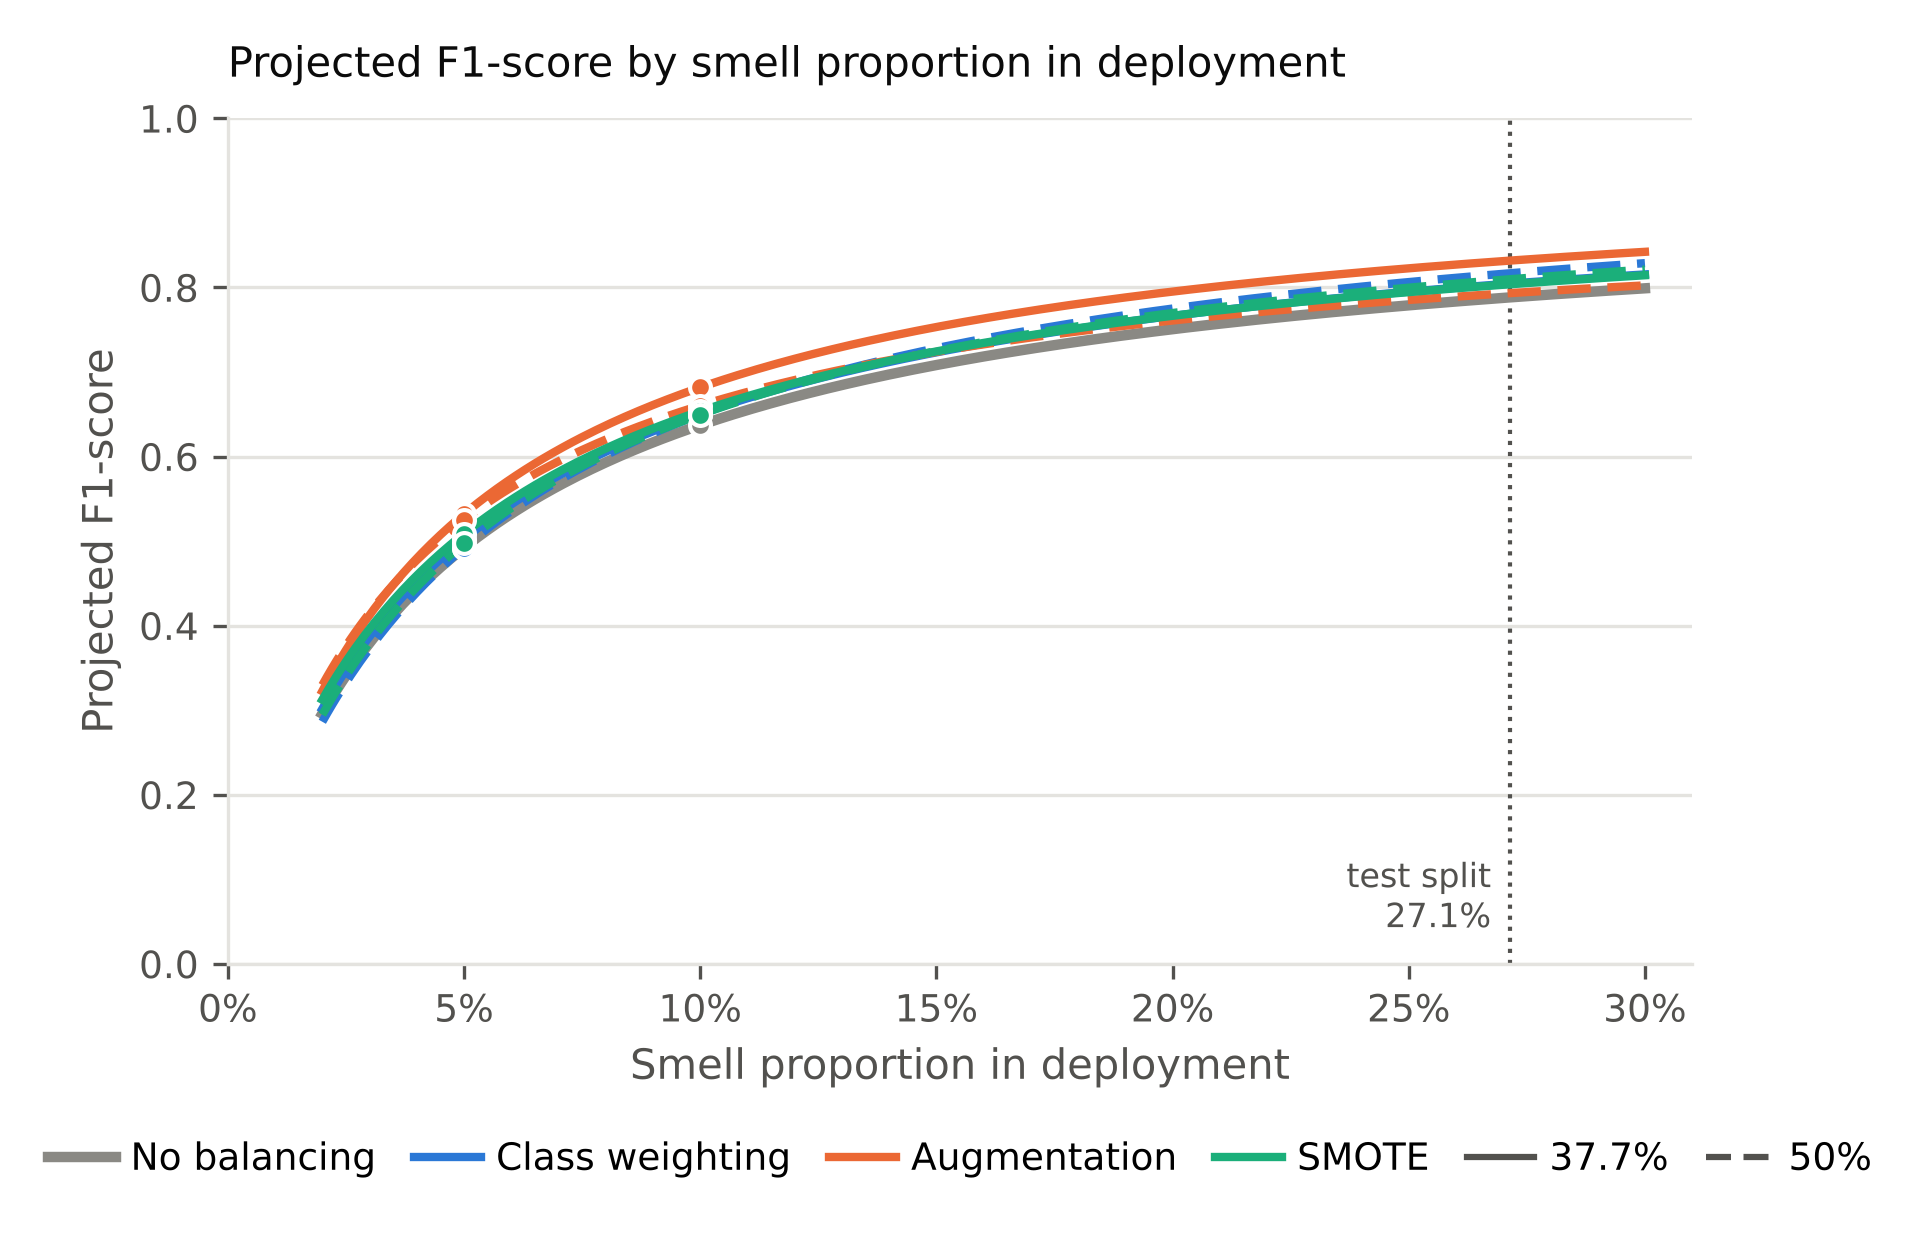
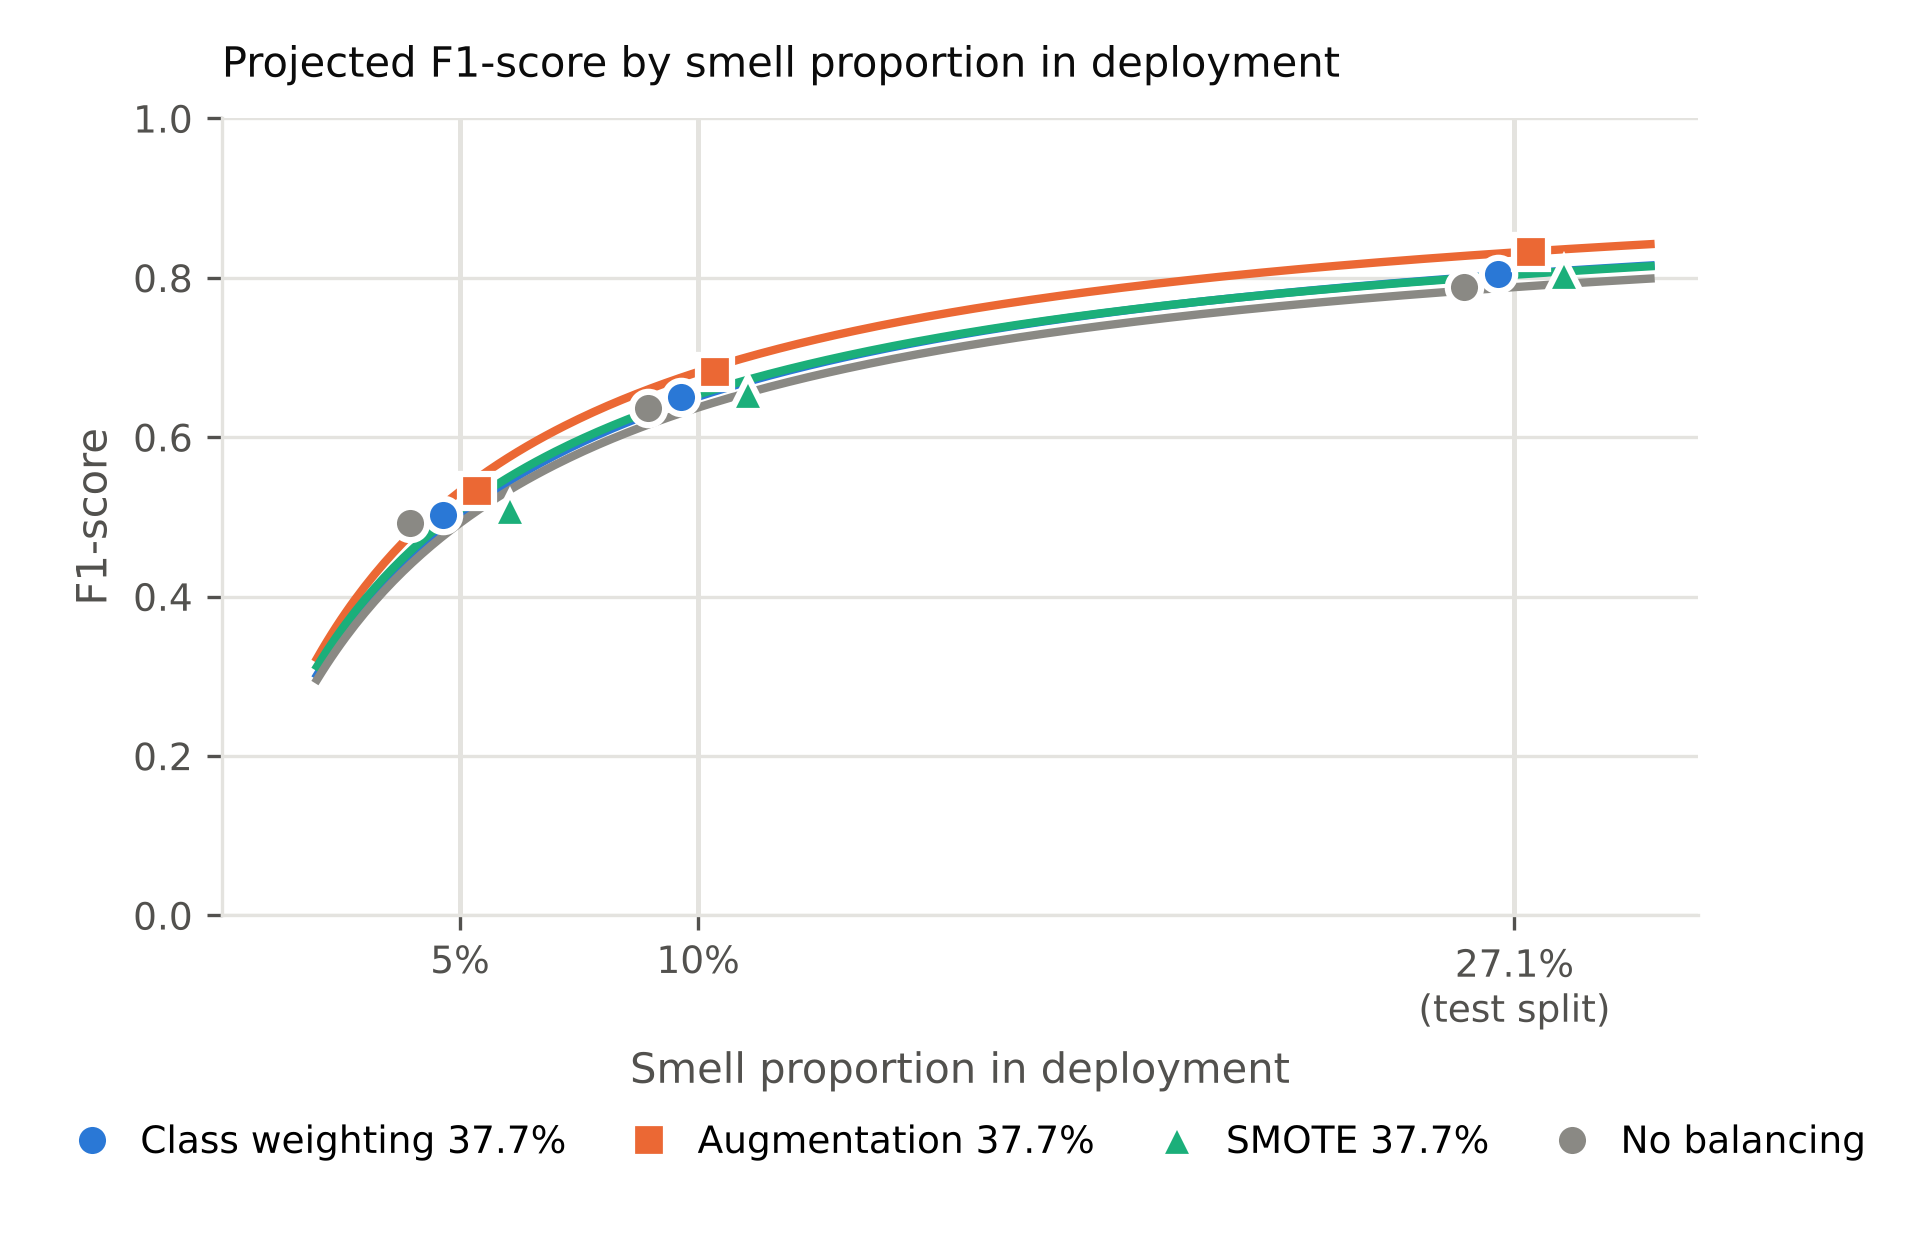
Projected figures: 37.7% curves only, method markers, lines at 5%, 10% and 27.1%
Claude-Session: https://claude.ai/code/session_017rhwVyM5rhv5k17AN45Ux5

diff --git a/scripts/5_plots.py b/scripts/5_plots.py
@@ -137,42 +137,37 @@ def projected(r, pi, metric):
     return 2 * precision * tpr / (precision + tpr) if precision + tpr else 0.0
 
 
-def plot_projection(rows, metric, label, out, test_pi=19 / 70, marks=(0.10, 0.05)):
+def plot_projection(rows, metric, label, out, share="37.7", test_pi=19 / 70, marks=(0.05, 0.10)):
     """`metric` projected with Eq. (9) to smell proportions in deployment from 2% to 30%, mean over
-    seeds 0-9 of each seed's projection: one curve per scenario, colored by method, solid for
-    37.7% and dashed for 50% smell in the training split, gray for no balancing. The dotted
-    vertical line marks the test split's own proportion (27.1%), where each curve gives back the
-    measured score, and the points mark 10% and 5%, the proportions of Table 3."""
+    seeds 0-9 of each seed's projection: one curve per method trained at 37.7% smell, and the
+    no-balancing curve (gray). Thin vertical lines mark 5% and 10% (the proportions of Table 3)
+    and the test split's own 27.1%, where each curve gives back the measured score; each curve
+    carries its method's marker at these three points, nudged apart along x."""
     plt = setup()
-    from matplotlib.lines import Line2D
     fig, ax = plt.subplots(figsize=(6.4, 4.2))
     grid = [p / 1000 for p in range(20, 301)]
+    points = list(marks) + [test_pi]
+    for pi in points:
+        ax.axvline(100 * pi, color=GRID, linewidth=1.2, zorder=1)
 
-    def curve(scenario, share, color, dashed, width=2.0):
-        rs = [r for r in rows if r["scenario"] == scenario and r["smell_pct"] == share and r["layers"] == "4"]
+    def curve(scenario, share_, name, color, marker, shift):
+        rs = [r for r in rows if r["scenario"] == scenario and r["smell_pct"] == share_ and r["layers"] == "4"]
         mean = lambda pi: statistics.mean(projected(r, pi, metric) for r in rs)
-        ax.plot([100 * p for p in grid], [mean(p) for p in grid], color=color, linewidth=width,
-                linestyle=(0, (4, 2)) if dashed else "-", zorder=3)
-        ax.plot([100 * p for p in marks], [mean(p) for p in marks], linestyle="none", marker="o",
-                markersize=5, color=color, markeredgecolor="white", markeredgewidth=1, zorder=4)
+        ax.plot([100 * p for p in grid], [mean(p) for p in grid], color=color, linewidth=2, zorder=3)
+        # Markers are nudged apart along x, as in the figures by training proportion, so none hides another
+        ax.plot([100 * p + shift for p in points], [mean(p) for p in points], linestyle="none", marker=marker,
+                markersize=8, color=color, markeredgecolor="white", markeredgewidth=1.5, zorder=4, label=name)
 
-    curve("none", "27.5", REFERENCE, False, width=2.5)
-    for scenario, _, color, _ in METHODS:
-        curve(scenario, "37.7", color, False)
-        curve(scenario, "50.0", color, True)
-    ax.axvline(100 * test_pi, color=MUTED, linewidth=1, linestyle=":", zorder=2)
-    ax.text(100 * test_pi - 0.4, 0.03, "test split\n27.1%", ha="right", va="bottom", fontsize=8, color=MUTED)
+    for i, (scenario, name, color, marker) in enumerate(METHODS):
+        curve(scenario, share, f"{name} {share}%", color, marker, (i - 1) * 0.7 + 0.35)
+    curve("none", "27.5", "No balancing", REFERENCE, "o", -1.05)
     ax.set_xlim(0, 31)
     ax.set_ylim(0, 1)
-    ax.set_xticks([0, 5, 10, 15, 20, 25, 30], ["0%", "5%", "10%", "15%", "20%", "25%", "30%"])
+    ax.set_xticks([100 * p for p in points], ["5%", "10%", "27.1%\n(test split)"])
     ax.set_xlabel("Smell proportion in deployment", color=MUTED)
-    ax.set_ylabel(f"Projected {label.lower() if label == 'Precision' else label}", color=MUTED)
-    handles = [Line2D([], [], color=REFERENCE, linewidth=2.5, label="No balancing")]
-    handles += [Line2D([], [], color=color, linewidth=2, label=name) for _, name, color, _ in METHODS]
-    handles += [Line2D([], [], color=MUTED, linewidth=1.5, label="37.7%"),
-                Line2D([], [], color=MUTED, linewidth=1.5, linestyle=(0, (4, 2)), label="50%")]
-    ax.legend(handles=handles, frameon=False, fontsize=9, loc="upper center", bbox_to_anchor=(0.5, -0.17),
-              ncol=6, handletextpad=0.4, columnspacing=1.0, handlelength=1.8)
+    ax.set_ylabel(label, color=MUTED)
+    ax.legend(frameon=False, fontsize=9, loc="upper center", bbox_to_anchor=(0.5, -0.22), ncol=4,
+              handletextpad=0.3, columnspacing=1.2)
     style(ax, f"Projected {label.lower() if label == 'Precision' else label} by smell proportion in deployment")
     save(plt, fig, out)
 
